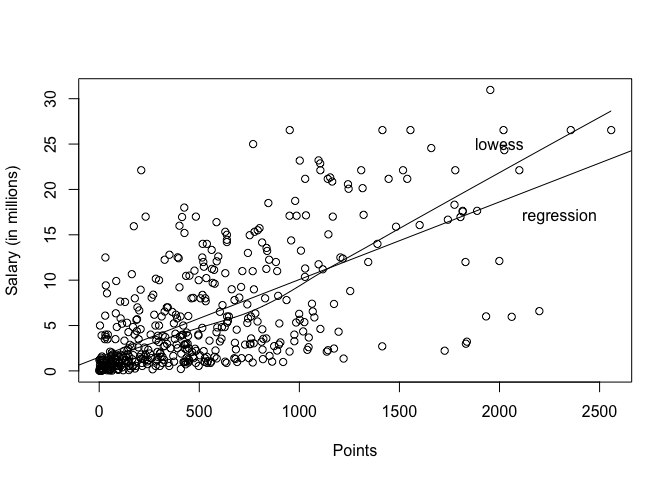
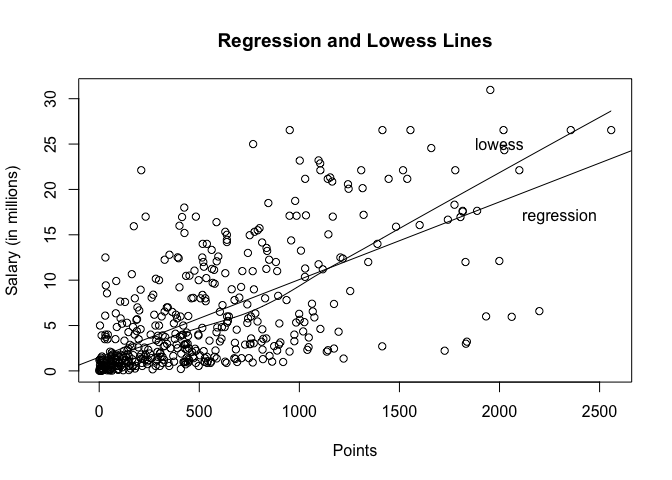
hw1'

Changed region(s): [[0.3125, 0.0625, 0.75, 0.125]]

diff --git a/hw01/hw01-yowsean-li.md b/hw01/hw01-yowsean-li.md
@@ -41,6 +41,7 @@ table(position_fac)
 
 ``` r
 plot(points, salary_millions, xlab='Points', ylab='Salary (in millions)')
+title('Scatter Plot of Points and Salary')
 ```
 
 ![](hw01-yowsean-li_files/figure-markdown_github-ascii_identifiers/unnamed-chunk-6-1.png)
@@ -58,7 +59,65 @@ sd_points <- sqrt(var_points)
 sd_salary <- sqrt(var_salary)
 cov_pts_salary <- sum((points - mean_points)*(salary_millions - mean_salary)) / (n-1)
 cor_pts_salary <- cov_pts_salary / (sd_points * sd_salary)
+
+paste('n:', n)
 ```
+
+    ## [1] "n: 441"
+
+``` r
+paste('mean_points:', mean_points)
+```
+
+    ## [1] "mean_points: 546.605442176871"
+
+``` r
+paste('mean_salary:', mean_salary)
+```
+
+    ## [1] "mean_salary: 6.18701394557823"
+
+``` r
+paste('var_points:', var_points)
+```
+
+    ## [1] "var_points: 239136.243970315"
+
+``` r
+paste('var_salary:', var_salary)
+```
+
+    ## [1] "var_salary: 43.1897349519223"
+
+``` r
+paste('sd_points:', sd_points)
+```
+
+    ## [1] "sd_points: 489.015586633305"
+
+``` r
+paste('sd_salary:', sd_salary)
+```
+
+    ## [1] "sd_salary: 6.57188975500368"
+
+``` r
+paste('cov_pts_salary:', cov_pts_salary)
+```
+
+    ## [1] "cov_pts_salary: 2046.21251191257"
+
+``` r
+paste('mean_salary:', mean_salary)
+```
+
+    ## [1] "mean_salary: 6.18701394557823"
+
+``` r
+paste('cor_pts_salary:', cor_pts_salary)
+```
+
+    ## [1] "cor_pts_salary: 0.636704273251037"
 
 4. Simple Linear Regression
 ===========================
@@ -75,7 +134,7 @@ summary(Y)
     ##    Min. 1st Qu.  Median    Mean 3rd Qu.    Max. 
     ##   1.510   2.845   5.206   6.187   8.184  23.398
 
-1.  
+Summary:
 
 -   Minimum: 1.510
 -   1st Quartile: 2.845
@@ -84,15 +143,17 @@ summary(Y)
 -   3rd Quartile: 8.184
 -   Maximum: 23.298
 
-1.  The regression equation is
+The regression equation is:
 
 ``` r
 Y_hat <- 1.510 + 0.009 * X
 ```
 
-1.  The slope coefficient b\_1 is the average increase in salary per point starting from the intercept.
-2.  The intercept term b\_0 is the minimum salary.
-3.  
+The slope coefficient b\_1 is the average increase in salary per point starting from the intercept.
+
+The intercept term b\_0 is the minimum salary.
+
+Predicted Salaries:
 
 -   0 points: 1.510 million
 -   100 points: 2.366 million
@@ -109,9 +170,76 @@ abline(b_0, b_1)
 lines(lowess(points, salary_millions))
 text(2300, 17, labels = 'regression')
 text(2000, 25, labels = 'lowess')
+title('Regression and Lowess Lines')
 ```
 
 ![](hw01-yowsean-li_files/figure-markdown_github-ascii_identifiers/unnamed-chunk-10-1.png)
 
 6. Regression Residuals and Coefficient of Determination *R*<sup>2</sup>
 ========================================================================
+
+``` r
+residuals <- salary_millions - Y
+summary(residuals)
+```
+
+    ##    Min. 1st Qu.  Median    Mean 3rd Qu.    Max. 
+    ## -14.190  -2.794  -1.095   0.000   2.555  18.810
+
+``` r
+RSS <- sum(residuals^2)
+TSS <- sum((salary_millions - mean_salary)^2)
+R2 <- 1 - RSS/TSS
+paste('RSS: ', RSS)
+```
+
+    ## [1] "RSS:  11299.6169438272"
+
+``` r
+paste('TSS: ', TSS)
+```
+
+    ## [1] "TSS:  19003.4833788458"
+
+``` r
+paste('R2: ', R2)
+```
+
+    ## [1] "R2:  0.405392331576131"
+
+7. Exploring Position and Experience
+====================================
+
+``` r
+plot(experience, salary_millions, xlab='Years of Experience', ylab='Salary (in millions)')
+title('Scatter Plot with lowess smooth')
+lines(lowess(experience, salary_millions))
+```
+
+![](hw01-yowsean-li_files/figure-markdown_github-ascii_identifiers/unnamed-chunk-13-1.png) We can see that salary does increase with more experience, but reaches a peak and slowly starts to decrease at 5 years.
+
+``` r
+library(scatterplot3d)
+scatterplot3d(points, experience, salary_millions)
+title('3D Scatterplot')
+```
+
+![](hw01-yowsean-li_files/figure-markdown_github-ascii_identifiers/unnamed-chunk-14-1.png) This plot shows us that salary does increase as experience and points increase.
+
+``` r
+boxplot(salary_millions~position, xlab="Position", ylab="Salary (millions)")
+title('Boxplot of Position and Salary')
+```
+
+![](hw01-yowsean-li_files/figure-markdown_github-ascii_identifiers/unnamed-chunk-15-1.png) The boxplot shows that salary does not seem to have a strong correlation with position, although centers seem to be paid the most overall.
+
+8. Comments and Reflections
+===========================
+
+-   The hardest parts were figuring out the correct parameters for different functions.
+-   The easier parts were converting the equations into code.
+-   This was not my first time using Git or Github.
+-   I did not need help completing the assignment.
+-   It took me a couple hours to finish.
+-   There was no particular part that was most time consuming.
+-   The most exciting part was drawing the graphs since I could actually visualize the data in different ways.
